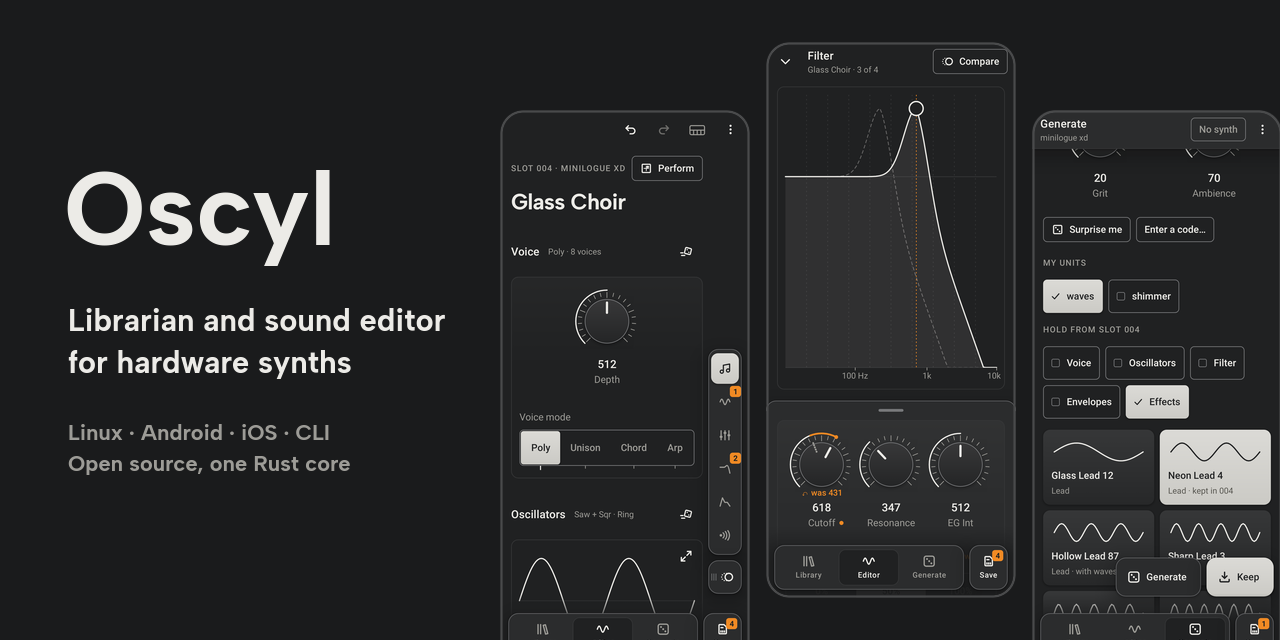
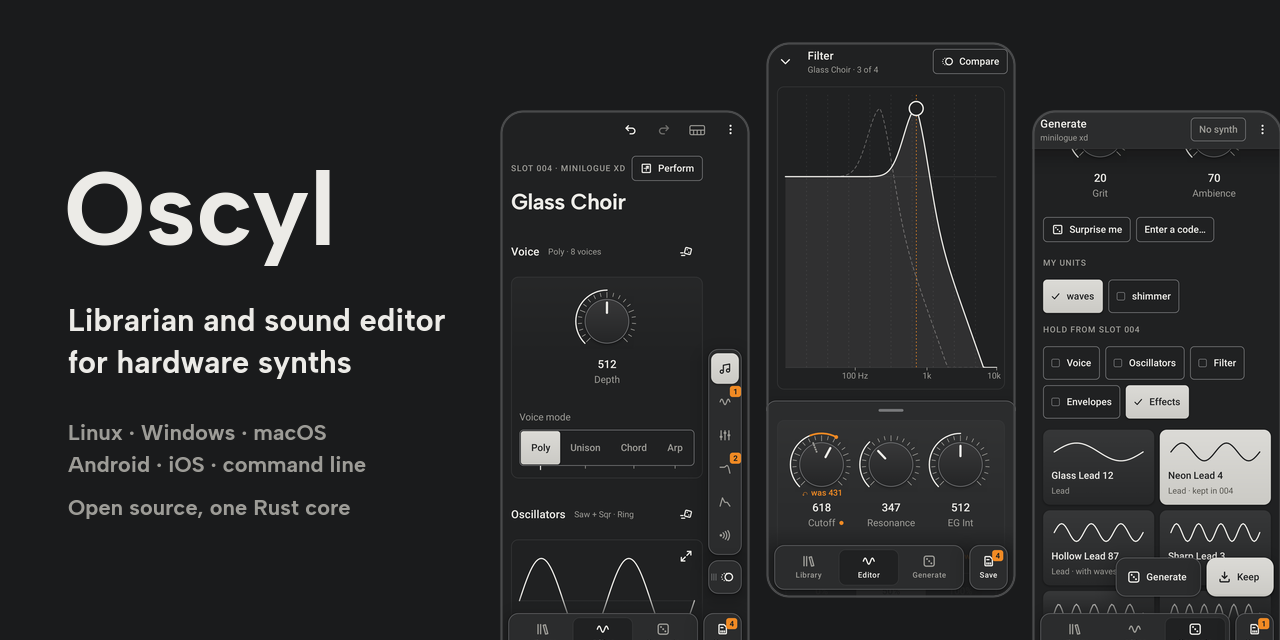
docs: framed hero and phone tour in both themes; Windows and macOS named
The README hero is the desktop editor with the phone in front, both at the
same filter edit, in a light and a dark version. A four-screen phone tour is
built for the organisation page. The README, the site and the social preview
now name Windows and macOS, and the site title names the synths.

Changed region(s): [[0.0312, 0.7812, 0.2812, 0.8125], [0.0312, 0.7188, 0.2812, 0.75], [0.0938, 0.6562, 0.2812, 0.6875]]

diff --git a/site/index.html b/site/index.html
@@ -3,14 +3,14 @@
 <head>
 <meta charset="utf-8">
 <meta name="viewport" content="width=device-width, initial-scale=1">
-<title>Oscyl: librarian and sound editor for hardware synths</title>
-<meta name="description" content="Oscyl is an open-source patch librarian and sound editor for the KORG minilogue xd, prologue and Sequential Prophet Rev2. Read, edit, back up and sync programs on Linux, Android, iOS and the command line.">
+<title>Oscyl: minilogue xd, prologue and Prophet Rev2 editor and librarian</title>
+<meta name="description" content="Oscyl is an open-source patch librarian and sound editor for the KORG minilogue xd, prologue and Sequential Prophet Rev2. Read, edit, back up and sync programs on Linux, Windows, macOS, Android, iOS and the command line.">
 <link rel="canonical" href="https://oscyl.github.io/oscyl/">
 <link rel="icon" href="icon.svg" type="image/svg+xml">
 <meta name="color-scheme" content="light dark">
 <meta property="og:type" content="website">
 <meta property="og:title" content="Oscyl: librarian and sound editor for hardware synths">
-<meta property="og:description" content="Read, edit, back up and sync your synth's programs. Open source, one Rust core, on Linux, Android, iOS and the command line.">
+<meta property="og:description" content="Read, edit, back up and sync your synth's programs. Open source, one Rust core, on Linux, Windows, macOS, Android, iOS and the command line.">
 <meta property="og:url" content="https://oscyl.github.io/oscyl/">
 <meta property="og:image" content="https://oscyl.github.io/oscyl/images/social-preview.png">
 <meta name="twitter:card" content="summary_large_image">
@@ -162,7 +162,7 @@ footer nav { display: flex; gap: 18px; }
         <a class="button" href="https://github.com/oscyl/oscyl">Source</a>
         <a class="button" href="#try">Try it without a synth</a>
       </div>
-      <p class="state"><span class="lamp"></span><b>Pre-alpha.</b> Validated on a KORG minilogue xd. Builds for Linux, Android and the command line are on the <a href="https://github.com/oscyl/oscyl/releases">Releases</a> page.</p>
+      <p class="state"><span class="lamp"></span><b>Pre-alpha.</b> Validated on a KORG minilogue xd. Builds for Linux, Windows, macOS, Android and the command line are on the <a href="https://github.com/oscyl/oscyl/releases">Releases</a> page.</p>
     </div>
     <picture>
       <source srcset="images/desktop-editor.png" media="(prefers-color-scheme: dark)">

diff --git a/README.md b/README.md
@@ -5,7 +5,8 @@
 # Oscyl
 
 **The open-source librarian and sound editor for hardware synths.**<br>
-Read, edit, back up and sync your synth's programs on Linux, Android, iOS and the command line.
+For the KORG minilogue xd, prologue and Sequential Prophet Rev2, on Linux,<br>
+Windows, macOS, Android, iOS and the command line.
 
 [![CI](https://github.com/oscyl/oscyl/actions/workflows/ci.yml/badge.svg)](https://github.com/oscyl/oscyl/actions/workflows/ci.yml)
 [![OpenSSF Scorecard](https://api.scorecard.dev/projects/github.com/oscyl/oscyl/badge)](https://scorecard.dev/viewer/?uri=github.com/oscyl/oscyl)
@@ -17,7 +18,10 @@ Read, edit, back up and sync your synth's programs on Linux, Android, iOS and th
 [Try it](#try-it-without-a-synth) ·
 [Contribute](#contributing)
 
-<img src="docs/images/hero.png" width="900" alt="Oscyl on Linux and on an Android phone, editing a program's filter: the graph, the dials and the saved value beside the edited one">
+<picture>
+  <source media="(prefers-color-scheme: light)" srcset="docs/images/hero-light.png">
+  <img src="docs/images/hero.png" width="900" alt="Oscyl on the desktop with an Android phone in front, both editing a program's filter: the graph, the dials and the saved value beside the edited one">
+</picture>
 
 </div>
 
